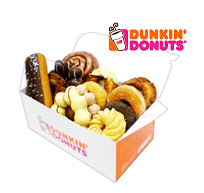
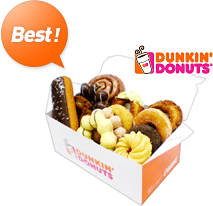
gifticon .gifticon-recommendation 업데이트

diff --git a/15회차/gifticon/style.css b/15회차/gifticon/style.css
@@ -268,6 +268,10 @@ body {
   margin: 0 auto;
 }
 
+.wrapper h1 img {
+  cursor: pointer;
+}
+
 /* 
     #      ###### ###### ##### 
     #      #      #        #   
@@ -278,6 +282,7 @@ body {
 */
 
 .left {
+  position: absolute;
   width: 220px;
 }
 
@@ -365,6 +370,7 @@ body {
 }
 
 .navigation li {
+  cursor: pointer;
   padding-bottom: 6px;
 }
 
@@ -381,6 +387,232 @@ body {
 ### #    # #      #   ##   #   #      #   #  
 ###  ####  ###### #    #   #   ###### #    # 
 */
+
+.center {
+  position: relative;
+  width: 720px;
+  padding-left: 250px;
+}
+
+/* 
+     ####  # ###### ##### #  ####   ####  #    #       #####  ######  ####   ####  #    # #    # ###### #    # #####    ##   ##### #  ####  #    # 
+    #    # # #        #   # #    # #    # ##   #       #    # #      #    # #    # ##  ## ##  ## #      ##   # #    #  #  #    #   # #    # ##   # 
+    #      # #####    #   # #      #    # # #  # ##### #    # #####  #      #    # # ## # # ## # #####  # #  # #    # #    #   #   # #    # # #  # 
+### #  ### # #        #   # #      #    # #  # #       #####  #      #      #    # #    # #    # #      #  # # #    # ######   #   # #    # #  # # 
+### #    # # #        #   # #    # #    # #   ##       #   #  #      #    # #    # #    # #    # #      #   ## #    # #    #   #   # #    # #   ## 
+###  ####  # #        #   #  ####   ####  #    #       #    # ######  ####   ####  #    # #    # ###### #    # #####  #    #   #   #  ####  #    # 
+*/
+
+.center .gifticon-recommendation::before {
+  content: '';
+  position: absolute;
+  top: 52px;
+  left: 21px;
+  background: url('./images/gifticon-recommendation_grid.png');
+  width: 680px;
+  height: 318px;
+}
+
+.center .gifticon-recommendation {
+  position: relative;
+}
+
+.center .gifticon-recommendation .title-bar {
+  padding-top: 16px;
+  padding-bottom: 12px;
+  padding-left: 17px;
+  border-top: 1px solid #d2d2d2;
+  border-left: 1px solid #d2d2d2;
+  border-right: 1px solid #d2d2d2;
+  border-bottom: 1px solid #f0f0f0;
+  background: #f6f6f6;
+}
+
+.center .gifticon-recommendation .title-bar h2 {
+  position: absolute;
+}
+
+.center .gifticon-recommendation .title-bar p {
+  padding-left: 92px;
+}
+
+.center .gifticon-recommendation ul {
+  position: relative;
+  min-height: 333px;
+  border-left: 1px solid #e6e6e6;
+  border-right: 1px solid #e6e6e6;
+  border-bottom: 1px solid #e6e6e6;
+  box-sizing: border-box;
+}
+
+.center .gifticon-recommendation ul .best {
+  position: absolute;
+  left: 17px;
+  top: 19px;
+}
+
+.center .gifticon-recommendation ul .best::before {
+  content: '';
+  display: inline-block;
+  background: url('./images/gifticon-recommendation_best-dunkin.png') no-repeat;
+  width: 213px;
+  height: 206px;
+}
+
+.center .gifticon-recommendation ul .best .information {
+  padding-top: 50px;
+  /* padding-left: 2px; */
+}
+
+.center .gifticon-recommendation ul .best .brand,
+.center .gifticon-recommendation ul .best .title,
+.center .gifticon-recommendation ul .best .price {
+  /* font-size: 12px; */
+  font-weight: bolder;
+  /* letter-spacing: -0.5px; */
+}
+
+.center .gifticon-recommendation ul .best .brand {
+  /* display: inline-block; */
+  position: absolute;
+  padding-left: 2px;
+  color: #868686;
+  font-size: 12px;
+  letter-spacing: -0.5px;
+}
+
+.center .gifticon-recommendation ul .best .title {
+  /* display: inline-block; */
+  padding-left: 68px;
+  color: #1e1e1e;
+  font-size: 12px;
+  letter-spacing: -0.5px;
+}
+
+.center .gifticon-recommendation ul .best .price {
+  margin-top: 9px;
+  color: #e70002;
+  font-size: 14px;
+  letter-spacing: -0.5px;
+}
+/* ---------------- */
+.center .gifticon-recommendation ul .item:nth-of-type(2)::before,
+.center .gifticon-recommendation ul .item:nth-of-type(3)::before,
+.center .gifticon-recommendation ul .item:nth-of-type(4)::before,
+.center .gifticon-recommendation ul .item:nth-of-type(5)::before,
+.center .gifticon-recommendation ul .item:nth-of-type(6)::before,
+.center .gifticon-recommendation ul .item:nth-of-type(7)::before {
+  content: '';
+  position: absolute;
+  top: -77px;
+  left: 18px;
+}
+
+.center .gifticon-recommendation ul .item:nth-of-type(2),
+.center .gifticon-recommendation ul .item:nth-of-type(3),
+.center .gifticon-recommendation ul .item:nth-of-type(4),
+.center .gifticon-recommendation ul .item:nth-of-type(5),
+.center .gifticon-recommendation ul .item:nth-of-type(6),
+.center .gifticon-recommendation ul .item:nth-of-type(7) {
+  position: absolute;
+}
+
+.center .gifticon-recommendation ul .item:nth-of-type(2),
+.center .gifticon-recommendation ul .item:nth-of-type(3),
+.center .gifticon-recommendation ul .item:nth-of-type(4) {
+  top: 105px;
+}
+
+.center .gifticon-recommendation ul .item:nth-of-type(5),
+.center .gifticon-recommendation ul .item:nth-of-type(6),
+.center .gifticon-recommendation ul .item:nth-of-type(7) {
+  top: 274px;
+}
+
+.center .gifticon-recommendation ul .item:nth-of-type(2)::before {
+  background: url('./images/gifticon-recommendation_lotteria-burger.png');
+  width: 72px;
+  height: 53px;
+}
+
+.center .gifticon-recommendation ul .item:nth-of-type(3)::before {
+  background: url('./images/gifticon-recommendation_coffeebean-macchiato.png');
+  width: 52px;
+  height: 68px;
+}
+
+.center .gifticon-recommendation ul .item:nth-of-type(4)::before {
+  background: url('./images/gifticon-recommendation_baskinrobbins-icecream.png');
+  width: 60px;
+  height: 67px;
+}
+
+.center .gifticon-recommendation ul .item:nth-of-type(5)::before {
+  background: url('./images/gifticon-recommendation_javacity-latte.png');
+  width: 60px;
+  height: 67px;
+}
+
+.center .gifticon-recommendation ul .item:nth-of-type(6)::before {
+  background: url('./images/gifticon-recommendation_friedchicken.png');
+  width: 87px;
+  height: 50px;
+}
+
+.center .gifticon-recommendation ul .item:nth-of-type(7)::before {
+  background: url('./images/gifticon-recommendation_parisbaguette-cake.png');
+  width: 67px;
+  height: 65px;
+}
+
+.center .gifticon-recommendation ul .item:nth-of-type(2),
+.center .gifticon-recommendation ul .item:nth-of-type(5) {
+  left: 307px;
+}
+
+.center .gifticon-recommendation ul .item:nth-of-type(3),
+.center .gifticon-recommendation ul .item:nth-of-type(6) {
+  left: 450px;
+}
+
+.center .gifticon-recommendation ul .item:nth-of-type(4),
+.center .gifticon-recommendation ul .item:nth-of-type(7) {
+  left: 594px;
+}
+
+.center .gifticon-recommendation ul .item .title {
+  color: #646464;
+  font-size: 12px;
+}
+
+.center .gifticon-recommendation ul .item .price {
+  color: #333333;
+  font-size: 12px;
+  font-weight: bolder;
+}
+
+.center .gifticon-recommendation ul .item:nth-of-type(2) .title,
+.center .gifticon-recommendation ul .item:nth-of-type(3) .title,
+.center .gifticon-recommendation ul .item:nth-of-type(4) .title,
+.center .gifticon-recommendation ul .item:nth-of-type(5) .title,
+.center .gifticon-recommendation ul .item:nth-of-type(6) .title,
+.center .gifticon-recommendation ul .item:nth-of-type(7) .title,
+.center .gifticon-recommendation ul .item:nth-of-type(8) .title,
+.center .gifticon-recommendation ul .item:nth-of-type(9) .title {
+  letter-spacing: -0.9px;
+  line-height: 15px;
+}
+
+.center .gifticon-recommendation ul .item:nth-of-type(2) .price,
+.center .gifticon-recommendation ul .item:nth-of-type(3) .price,
+.center .gifticon-recommendation ul .item:nth-of-type(4) .price,
+.center .gifticon-recommendation ul .item:nth-of-type(5) .price,
+.center .gifticon-recommendation ul .item:nth-of-type(6) .price,
+.center .gifticon-recommendation ul .item:nth-of-type(7) .price,
+.center .gifticon-recommendation ul .item:nth-of-type(8) .price,
+.center .gifticon-recommendation ul .item:nth-of-type(9) .price {
+  margin-top: 5px;
+}
 
 /* 
     #####  #  ####  #    # ##### 

diff --git a/15회차/gifticon/index.html b/15회차/gifticon/index.html
@@ -61,7 +61,7 @@
             </li>
           </ul>
         </div>
-        <!-- <div class="center">
+        <div class="center">
           <div class="gifticon-recommendation">
             <div class="title-bar">
               <h2>
@@ -79,37 +79,65 @@
             </div>
             <ul>
               <li class="best">
-                <div class="brand">던킨도너츠</div>
-                <h2 class="title">던킨 교환권(1만원)</h2>
-                <div class="price">10,000원</div>
+                <div class="information">
+                  <div class="brand">던킨도너츠</div>
+                  <h2 class="title">던킨 교환권(1만원)</h2>
+                  <div class="price">10,000원</div>
+                </div>
               </li>
               <li class="item">
-                <h2 class="title">롯데리아 한우 불고기 버거 세트</h2>
+                <!-- <div class="information"> -->
+                <h2 class="title">
+                  롯데리아 한우 불고기
+                  <br />
+                  버거 세트
+                </h2>
                 <div class="price">5,500원</div>
+                <!-- </div> -->
               </li>
               <li class="item">
-                <h2 class="title">커피빈 아이스 카라멜 마끼아또</h2>
+                <h2 class="title">
+                  커피빈 아이스 카라멜
+                  <br />
+                  마끼아또
+                </h2>
                 <div class="price">30,000원</div>
               </li>
               <li class="item">
-                <h2 class="title">베스킨 라빈스 패밀리 아이스크림</h2>
+                <h2 class="title">
+                  베스킨 라빈스 패밀리
+                  <br />
+                  아이스크림
+                </h2>
                 <div class="price">16,900원</div>
               </li>
               <li class="item">
-                <h2 class="title">자바시티 턱시도 R 카페라떼</h2>
+                <h2 class="title">
+                  자바시티 턱시도 R
+                  <br />
+                  카페라떼
+                </h2>
                 <div class="price">5,000원</div>
               </li>
               <li class="item">
-                <h2 class="title">롯데리아 한우 불고기 버거 세트</h2>
+                <h2 class="title">
+                  롯데리아 한우 불고기
+                  <br />
+                  버거 세트
+                </h2>
                 <div class="price">5,500원</div>
               </li>
               <li class="item">
-                <h2 class="title">파리바게트 케익교환 권(2만원권)</h2>
+                <h2 class="title">
+                  파리바게트 케익교환
+                  <br />
+                  권(2만원권)
+                </h2>
                 <div class="price">20,000원</div>
               </li>
             </ul>
           </div>
-          <div class="present">
+          <!-- <div class="present">
             <div class="title-bar">
               <h2>
                 <img
@@ -289,9 +317,9 @@
                 />
               </p>
             </div>
-          </div>
+          </div> -->
         </div>
-        <div class="right">
+        <!-- <div class="right">
           <div class="viewed-items">
             <div class="title-bar">
               <img src="./images/viewd-items_title.png" alt="오늘 본 상품" />
